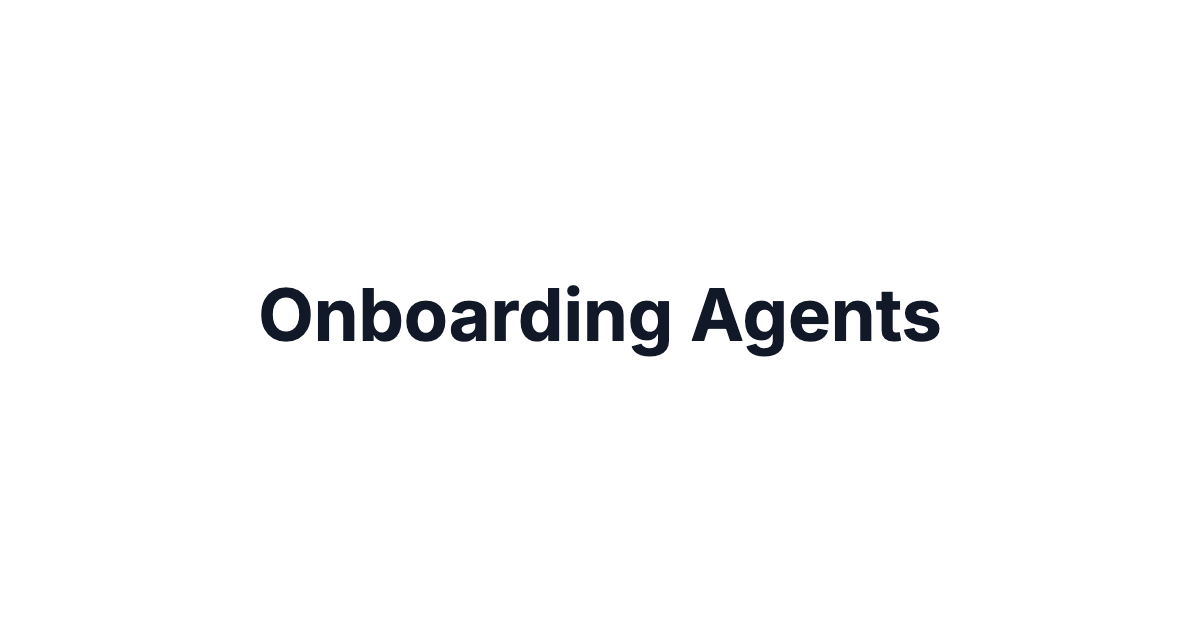
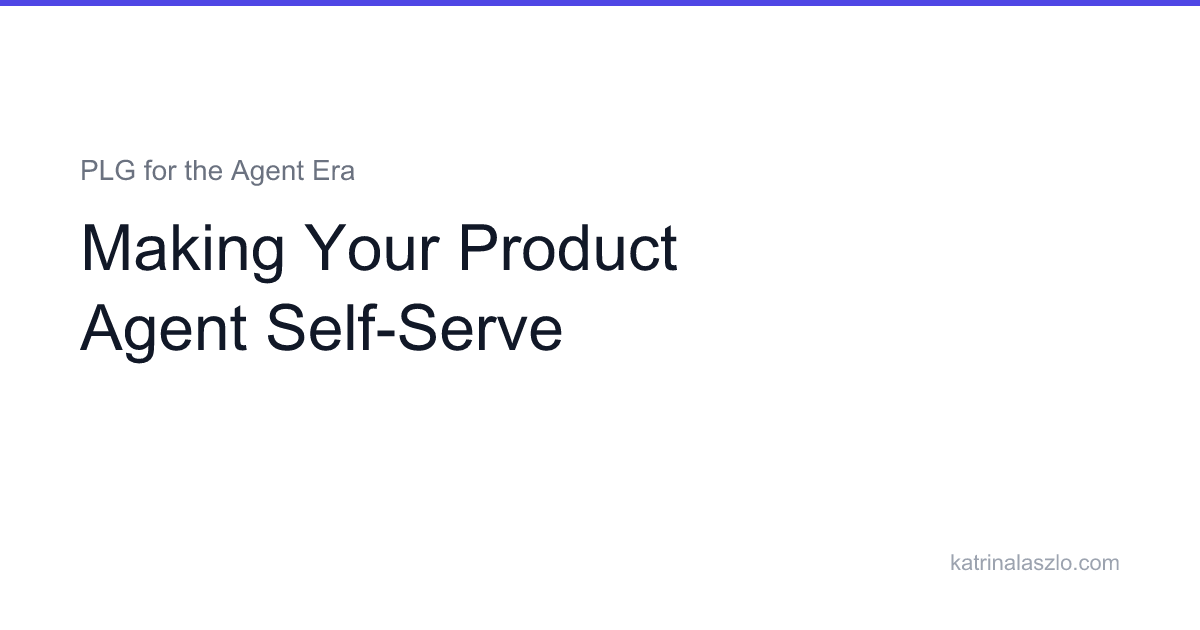
Rename onboarding-agents post to "Making Your Product Agent Self-Serve"
Standalone title works better than "Part 3:" prefix for discoverability.
Updated frontmatter, OG image, and rebuilt all posts.

diff --git a/public/blog/onboarding-agents.html b/public/blog/onboarding-agents.html
@@ -3,24 +3,24 @@
 <head>
 <meta charset="UTF-8">
 <meta name="viewport" content="width=device-width, initial-scale=1.0">
-<title>Onboarding Agents — Kat Laszlo</title>
-<meta name="description" content="Most SaaS products have APIs but are still agent-hostile. Here's what it takes to let an agent sign up, authenticate, pay, and manage itself, and an open-source skill to audit where you stand.">
-<meta name="ai:token-count" content="3011">
+<title>Making Your Product Agent Self-Serve — Kat Laszlo</title>
+<meta name="description" content="I made an AI cost observability product self-serve for agents. Here's what the industry recommends, what I actually built, what I skipped, and what isn't worth doing yet.">
+<meta name="ai:token-count" content="3057">
 <meta name="ai:page-type" content="article">
-<meta property="og:title" content="Onboarding Agents">
-<meta property="og:description" content="Most SaaS products have APIs but are still agent-hostile. Here's what it takes to let an agent sign up, authenticate, pay, and manage itself, and an open-source skill to audit where you stand.">
+<meta property="og:title" content="Making Your Product Agent Self-Serve">
+<meta property="og:description" content="I made an AI cost observability product self-serve for agents. Here's what the industry recommends, what I actually built, what I skipped, and what isn't worth doing yet.">
 <meta property="og:type" content="article">
 <meta property="og:url" content="https://katrinalaszlo.com/blog/onboarding-agents">
-<meta property="og:image" content="/blog/og/onboarding-agents.png">
+<meta property="og:image" content="/og-image.png">
 <meta property="og:image:width" content="1200">
 <meta property="og:image:height" content="630">
-<meta property="article:published_time" content="2026-06-01">
+<meta property="article:published_time" content="2026-06-02">
 <meta property="article:author" content="Kat Laszlo">
 <meta name="twitter:card" content="summary_large_image">
 <meta name="twitter:site" content="@Katlaszlo">
-<meta name="twitter:title" content="Onboarding Agents">
-<meta name="twitter:description" content="Most SaaS products have APIs but are still agent-hostile. Here's what it takes to let an agent sign up, authenticate, pay, and manage itself, and an open-source skill to audit where you stand.">
-<meta name="twitter:image" content="/blog/og/onboarding-agents.png">
+<meta name="twitter:title" content="Making Your Product Agent Self-Serve">
+<meta name="twitter:description" content="I made an AI cost observability product self-serve for agents. Here's what the industry recommends, what I actually built, what I skipped, and what isn't worth doing yet.">
+<meta name="twitter:image" content="/og-image.png">
 <link rel="llms-txt" href="/llms.txt">
 <link rel="alternate" type="application/rss+xml" title="Kat Laszlo's Blog" href="/blog/feed.xml">
 <link rel="alternate" type="text/plain" href="/llms.txt" title="LLM-optimized content">
@@ -35,15 +35,15 @@
 {
   "@context": "https://schema.org",
   "@type": "Article",
-  "headline": "Onboarding Agents",
-  "description": "Most SaaS products have APIs but are still agent-hostile. Here's what it takes to let an agent sign up, authenticate, pay, and manage itself, and an open-source skill to audit where you stand.",
+  "headline": "Making Your Product Agent Self-Serve",
+  "description": "I made an AI cost observability product self-serve for agents. Here's what the industry recommends, what I actually built, what I skipped, and what isn't worth doing yet.",
   "image": "/og-image.png",
   "author": {
     "@type": "Person",
     "name": "Kat Laszlo",
     "url": "https://katrinalaszlo.com"
   },
-  "datePublished": "2026-06-01",
+  "datePublished": "2026-06-02",
   "mainEntityOfPage": {
     "@type": "WebPage",
     "@id": "https://katrinalaszlo.com/blog/onboarding-agents"
@@ -67,13 +67,13 @@
 
   <article>
     <p class="series-label">PLG for the Agent Era</p>
-    <h1>Part 3: Onboarding Agents</h1>
+    <h1>Making Your Product Agent Self-Serve</h1>
     <div class="post-meta-row">
       <p class="post-meta">
-        <a href="/">Kat Laszlo</a> &middot; June 1, 2026
+        <a href="/">Kat Laszlo</a> &middot; June 2, 2026
       </p>
       <div class="post-actions">
-        <a class="action-icon" href="https://twitter.com/intent/tweet?url=https%3A%2F%2Fkatrinalaszlo.com%2Fblog%2Fonboarding-agents&text=Onboarding%20Agents" target="_blank" rel="noopener" title="Share on X">
+        <a class="action-icon" href="https://twitter.com/intent/tweet?url=https%3A%2F%2Fkatrinalaszlo.com%2Fblog%2Fonboarding-agents&text=Making%20Your%20Product%20Agent%20Self-Serve" target="_blank" rel="noopener" title="Share on X">
           <svg viewBox="0 0 24 24" fill="currentColor"><path d="M18.244 2.25h3.308l-7.227 8.26 8.502 11.24H16.17l-5.214-6.817L4.99 21.75H1.68l7.73-8.835L1.254 2.25H8.08l4.713 6.231zm-1.161 17.52h1.833L7.084 4.126H5.117z"/></svg>
         </a>
         <a class="action-icon" href="https://www.linkedin.com/sharing/share-offsite/?url=https%3A%2F%2Fkatrinalaszlo.com%2Fblog%2Fonboarding-agents" target="_blank" rel="noopener" title="Share on LinkedIn">
@@ -84,7 +84,29 @@
         </button>
       </div>
     </div>
-    <p>In <a href="/blog/agent-self-serve">Part 1</a>, I laid out how agents are reshaping B2B buying. In <a href="/blog/site-ready-for-ai">Part 2</a>, I covered whether agents can even read your site. But being findable and being usable are two different problems. An agent can discover your product, parse your docs, and recommend you to a buyer, and then hit a CAPTCHA on the signup page.</p><p>That's where most products are today. The discovery layer is catching up (llms.txt, markdown serving, structured data), but the action layer hasn't moved. Signup, auth, payments, account management: all of it still assumes a human in a browser. And the gap between "an agent can read about your product" and "an agent can actually use your product" is where the next wave of competitive advantage sits.</p><h2>What agents can't get past</h2><p>When an agent tries to go from evaluating your product to actually using it, it runs into a predictable set of walls. CAPTCHAs and browser fingerprinting are the obvious ones, but the subtler blockers are just as common: email verification loops (agents don't have inboxes by default), SMS OTP, OAuth consent screens that require a browser session, and "contact sales" gates that kill the entire self-serve path.</p><p>These aren't edge cases. They're the default experience at most SaaS companies. A product can have a full REST API and still be functionally inaccessible to agents if the only way to get an API key is through a dashboard that requires email verification and a CAPTCHA.</p><p>The <a href="https://danjcleary.substack.com/p/how-netlify-is-winning-the-age-of">Netlify pattern</a> is instructive here. Their `netlify deploy --allow-anonymous` command lets agents deploy without creating an account first, with a one-hour claim window for the human to associate the deployment with their account later. <a href="https://www.netlify.com/solutions/code-agents/">Agents now make up 80% of their new signups</a>. They didn't get there by adding an API on top of their existing flow. They inverted it: deploy first, claim later.</p><h2>Five dimensions of agent readiness</h2><p>If readability (Part 2) was about whether agents can find and understand your product, this is about whether they can act on it. The surface breaks down into five dimensions:</p><table><thead><tr><th>Dimension</th><th>What it answers</th></tr></thead><tbody><tr><td>Onboarding</td><td>Can an agent create an account without a browser?</td></tr><tr><td>Authentication</td><td>Can it get scoped credentials programmatically?</td></tr><tr><td>Purchasing</td><td>Can it select a plan and pay without a checkout page?</td></tr><tr><td>Usage monitoring</td><td>Can it track consumption and costs via API?</td></tr><tr><td>Self-management</td><td>Can it upgrade, downgrade, or cancel without a dashboard?</td></tr></tbody></table><p>Most products score well on zero or one of these. Having a REST API doesn't mean you score well on any of them, because the API usually covers your product's core functionality, not the account lifecycle around it. You might have a beautiful API for your product's features but require a human to click through Stripe Checkout to start paying for it.</p><h2>Who's actually doing this</h2><p>A handful of companies have built the full stack. They're worth studying not because every product needs to match them, but because they show what the end state looks like.</p><p><a href="https://www.infoq.com/news/2026/05/cloudflare-stripe-agent-commerce/">Cloudflare</a> lets agents create accounts, buy domains, and deploy applications end-to-end. No browser, no human intervention beyond initial terms acceptance. They went from "agents can use our CDN" to "agents can provision entire infrastructure stacks" in about a year.</p><p><a href="https://stripe.com/blog/developing-an-open-standard-for-agentic-commerce">Stripe</a> built the Agentic Commerce Protocol and launched Stripe Projects, where agents get scoped API keys, discover services from a catalog, and pay via the Payments API. It's invitation-only with 32 launch partners, but the protocol itself is open and points to where programmatic commerce is heading.</p><p>Twilio is the quietest example but arguably the deepest. API coverage for account creation, number provisioning, usage records, and billing, with most lifecycle actions available programmatically. They didn't build this for agents specifically; they built it because developers wanted it, and agents are just very fast developers.</p><p>The common thread isn't technology. It's a philosophy: every action a human can take in a dashboard should have a programmatic equivalent. Products that were built API-first for developers end up being agent-ready almost by accident. Products that bolted APIs onto dashboard-first experiences have gaps everywhere.</p><h2>Most agent auth is a pasted API key</h2><p>Authentication is where the most interesting tension sits. The recommended approach for agent-to-service auth is OAuth 2.0 Client Credentials (machine-to-machine tokens with scoped permissions and short TTLs). It's the "right" answer, and almost nobody implements it for self-serve tiers.</p><p>What actually happens is simpler and messier: the human generates an API key in a dashboard and pastes it into the agent's configuration. That key typically has full account access, no expiration, no budget limits, and no record of which agent is using it. The vast majority of AI agent projects use unscoped API keys. One leaked key, one runaway agent, and the entire account is exposed.</p><p>The practical middle ground is scoped keys with budgets. The human still creates the key (you don't need to solve programmatic onboarding on day one), but the key itself carries constraints: which endpoints it can hit, how much it can spend, and when it expires. Stripe's approach with scoped API keys in their Projects platform points to where this is heading. Most teams aren't going to implement a full OAuth Client Credentials flow for their self-serve tier. But they can add a few columns to their API keys table and start enforcing scopes and budgets tomorrow.</p><h2>Payments without a checkout page</h2><p>Purchasing is the dimension where the gap between recommended and practical is widest. The gold standard is <a href="https://stripe.com/blog/developing-an-open-standard-for-agentic-commerce">Stripe's Agentic Commerce Protocol</a>: agents discover plans from a machine-readable catalog, select one, and pay using the Payments API with a pre-authorized payment method. No Checkout Session, no redirect, no browser.</p><p>But Stripe's full protocol is invitation-only, and most products aren't going to build a custom billing API. The practical path starts with something most SaaS companies already have: Stripe's saved payment methods. The human adds a card once through the normal checkout flow. After that, an agent can use `POST /v1/subscriptions` with the saved `pm_...` token to change plans programmatically. No new billing infrastructure required, just an API route that wraps what Stripe already provides.</p><p>The machine-readable pricing layer matters too. If an agent can't programmatically compare your plans, features, and limits, it can't make a purchasing decision without asking the human to read a pricing page. Publishing a `pricing.json` (a structured manifest of your plans, like `robots.txt` for pricing) lets agents compare you against competitors without parsing marketing copy. I published a <a href="https://github.com/katrinalaszlo/agent-serve/tree/main/schema">schema for this</a> in the agent-serve repo.</p><h2>Where most products land</h2><p>Most products score between 1 and 3 across these five dimensions. They have APIs for their core features but nothing for the account lifecycle. The signup requires a browser. The API key requires a dashboard. The payment requires Checkout. The plan change requires support.</p><table><thead><tr><th>Level</th><th>What it means</th></tr></thead><tbody><tr><td>0: Agent-hostile</td><td>Browser-only everything, CAPTCHA, "contact sales"</td></tr><tr><td>1: API exists</td><td>REST API for features, but signup/auth/billing require a human</td></tr><tr><td>2: Agent-possible</td><td>API signup (with friction), scoped keys, usage visible via API</td></tr><tr><td>3: Agent-friendly</td><td>Full programmatic onboarding, plan selection and payment via API</td></tr><tr><td>4: Agent-first</td><td>Zero-friction provisioning, MCP server, spending policies, self-serve everything</td></tr></tbody></table><p>Level 4 is Stripe and Cloudflare. Level 2 is a reasonable near-term target for most self-serve SaaS. The jump from 1 to 2 is the highest-leverage work: add an API signup route, scope your API keys, and expose usage data. None of that requires rebuilding your billing system.</p><h2>Does this matter yet?</h2><p>The same honest framing from Part 2 applies here. If you're optimizing for agents to discover you, the evidence is mixed. If you're optimizing for agents to use you once they arrive, the evidence is stronger but the market is early.</p><p><a href="https://www.netlify.com/solutions/code-agents/">Netlify's 80% agent signup rate</a> is real, but Netlify is a developer tool where the users are already in terminals and the agents are coding agents deploying projects. That's the ideal case. A marketing automation platform or a CRM probably isn't seeing 80% agent signups anytime soon.</p><p>But the directional bet is clear. <a href="https://stripe.com/blog/developing-an-open-standard-for-agentic-commerce">Stripe didn't build an entire commerce protocol</a> for a market that doesn't exist. Cloudflare didn't rebuild their onboarding around agents as a thought exercise. And the 73% of B2B buyers using agents for research will eventually expect those agents to act on their behalf, not just report back.</p><p>The pragmatic path is to start with Level 2. Scope your API keys. Expose usage data via API. Add a machine-readable pricing manifest. These are hours of work, not quarters, and they position you for the transition without requiring you to rebuild your entire account lifecycle. For most products, the highest-leverage fix is auth (scoped keys) or onboarding (an API signup route). The rest can follow as the market demands it.</p>
+    <p>In <a href="/blog/site-ready-for-ai">Part 2</a>, I looked at whether agents can read your site: discovery files, markdown serving, token efficiency. But readability only matters if agents can actually do something when they arrive. This part is about what happens next: can an agent sign up, authenticate, pay, and use your product without a human touching a browser?</p><p>I did this for Observe, an AI cost observability platform. I went through the recommendations, built what made sense, skipped what didn't, and packaged the patterns into an <a href="https://github.com/katrinalaszlo/agent-serve">open-source skill</a> so you can audit your own product. Then I realized I never actually tested any of it with an agent.</p><p>That's the honest version. I spent weeks building the "right" agent-ready infrastructure based on industry best practices, and I shipped it without once having an agent try to sign up and use the product. The patterns felt correct. The endpoints were clean. But I couldn't tell you whether a real agent could actually get through the flow end-to-end, because I never checked. If you take one thing from this post, it's that testing with an actual agent should come before building the perfect agent-ready stack, not after.</p><p>Here's what I built, what the discourse says you should build, and where those two things diverge.</p><h2>The baseline</h2><p>If you have a self-serve SaaS with an API, you already have most of what agents need. The blockers aren't architectural, they're ceremony. CAPTCHA, email verification, browser-only checkout, dashboard-only settings. These assume a human at a keyboard, and when an agent hits one, it stops.</p><p><a href="https://www.netlify.com/solutions/code-agents/">Netlify reports</a> that 80% of new signups are now agents. <a href="https://www.apideck.com/blog/api-design-principles-agentic-era">Gertjan De Wilde at Apideck</a> calls authentication "arguably the single biggest friction point for agents." If your product has a programmatic path that avoids human ceremony, you're already ahead of most.</p><h2>Five areas, what I built for each</h2><h3>1. Onboarding</h3><p><strong>What they recommend:</strong> API-based account creation with no browser interaction. No CAPTCHA, no email verification, no phone number. Netlify and Prisma use a "deploy-first-claim-later" pattern where agents provision instantly and humans claim ownership within a time window.</p><p><strong>What I did:</strong> `POST /signup` with no auth required, no CAPTCHA, no email verification. Returns a scoped API key in one call. Rate-limited to 3 requests/hour per IP.</p><div class="code-block"><button class="copy-code" data-copy onclick="navigator.clipboard.writeText(this.nextElementSibling.textContent).then(()=>{this.textContent='Copied!';setTimeout(()=>this.textContent='Copy',2000)})">Copy</button><pre><code class="language-json">POST /api/signup
+{ "email": "agent@example.com", "scopes": ["usage.read", "events.write"] }
+
+Response:
+{ "key": "obs_...", "scopes": ["usage.read", "events.write"] }</code></pre></div><p>The distinction between rate limiting and CAPTCHA matters. Rate limiting constrains volume without blocking agents. CAPTCHA uses browser fingerprinting and behavioral scoring that headless agents can't pass.</p><p><strong>My take:</strong> If your signup requires a browser, agents can't use your product. There's no workaround. This is table stakes.</p><h3>2. Authentication</h3><p><strong>What they recommend:</strong> Scoped API keys with rotation, OAuth 2.0 Client Credentials Grant for machine-to-machine auth, <a href="https://datatracker.ietf.org/doc/draft-gupta-httpbis-web-bot-auth/">Web Bot Auth</a> (IETF draft) for cryptographic agent identity. No magic links, no SMS OTP, no browser-only OAuth consent.</p><p><strong>What I did:</strong> Scoped SDK keys with 14 granular permissions (`events.read`, `events.write`, `billing.read`, `proxy.chat`, etc.). Key rotation via API. Multiple keys per account so different agents get different scopes. Per-key budget caps with configurable periods. And key introspection at `GET /sdk-keys/me` so an agent can check its own permissions and remaining budget.</p><div class="code-block"><button class="copy-code" data-copy onclick="navigator.clipboard.writeText(this.nextElementSibling.textContent).then(()=>{this.textContent='Copied!';setTimeout(()=>this.textContent='Copy',2000)})">Copy</button><pre><code class="language-json">GET /sdk-keys/me
+{
+  "auth_type": "sdk_key",
+  "scopes": ["usage.read", "events.write", "proxy.chat"],
+  "budget_cents": 5000,
+  "budget_used_cents": 120,
+  "budget_remaining_cents": 4880,
+  "budget_period": "month"
+}</code></pre></div><p><strong>What I skipped:</strong> OAuth Client Credentials. The SDK key system covers the agent case. Client Credentials is the enterprise-grade pattern for multi-tenant scenarios, and I'd add it when enterprise customers ask for it.</p><p><strong>My take:</strong> Scoped API keys with rotation is the 80/20. The thing most people miss is per-key budgets. An agent operating on behalf of a customer needs to know its spending limits. Without that, it's either overly cautious (asks for permission on everything) or reckless (runs up a bill). Budget introspection gives agents the guardrails to operate autonomously.</p><h3>3. Purchasing</h3><p><strong>What they recommend:</strong> JSON plan catalog at `GET /plans`. Programmatic subscription creation via <a href="https://docs.stripe.com/api/subscriptions">Stripe's Subscriptions API</a>. Accept saved payment methods (`pm_...`) so agents can pay without a browser. Publish `pricing.json` for machine-readable pricing discovery.</p><p><strong>What I did:</strong> `GET /plans` returns the full catalog as JSON (Free / Pro $29/mo / Team $99/mo with features and limits). `POST /billing/change-plan` accepts a `payment_method` parameter. If an agent has a saved `pm_...`, the subscription gets created without any browser interaction. It only falls back to a checkout URL when no payment method exists and none is on file.</p><p><strong>What I skipped:</strong> `pricing.json`, even though I designed the schema (it's in the <a href="https://github.com/katrinalaszlo/agent-serve/tree/main/schema">agent-serve repo</a>). Also skipped Stripe's newer agent commerce primitives: Shared Payment Tokens, Link wallet, the <a href="https://docs.stripe.com/agentic-commerce">Agentic Commerce Protocol</a>.</p><p>Most SaaS already uses Stripe. The code to accept a saved payment method exists in your integration. You're just not exposing it as an API parameter, sending agents to a browser redirect instead. Changing that is usually a few lines in your billing endpoint, not a new system.</p><p><strong>My take:</strong> `pricing.json` is the piece I'm most interested in. Agents can't compare your pricing with competitors if it's locked in HTML. I designed a schema covering plans, usage metrics, overage models, compliance certifications, and integration details. Whether it gets adoption is an open question, but the need is real: structured pricing is the missing layer between "agent found your product" and "agent can evaluate whether to buy it."</p><h3>4. Usage monitoring</h3><p><strong>What they recommend:</strong> Rate limit headers on every API response. Dedicated usage endpoint with current-period data. Billing API. Threshold webhooks for quota events.</p><p><strong>What I did:</strong> Rate limiting with standard headers (`x-ratelimit-remaining`, `x-ratelimit-reset`). `GET /usage` returns current-period consumption. `GET /plan` returns per-feature limits with remaining counts. Per-key budget tracking with reset dates.</p><div class="code-block"><button class="copy-code" data-copy onclick="navigator.clipboard.writeText(this.nextElementSibling.textContent).then(()=>{this.textContent='Copied!';setTimeout(()=>this.textContent='Copy',2000)})">Copy</button><pre><code class="language-json">GET /usage
+{
+  "period": "2026-05",
+  "plan": "free",
+  "usage": {
+    "event_ingest": { "used": 4520, "limit": 10000, "reset": "monthly" },
+    "ai_insights": { "used": 12, "limit": 1000, "reset": "monthly" }
+  },
+  "percent_used": 45.2
+}</code></pre></div><p><strong>What I skipped:</strong> Threshold webhooks. I have cost and margin alerts (8 curated types), but not "you're at 80% of your event ingest limit." An agent can poll usage, but it can't get notified proactively.</p><p><strong>My take:</strong> Rate limit headers on every response are the highest-impact, lowest-effort change. Agents use them to self-throttle in real time. Threshold webhooks are the difference between an agent that checks its limits and an agent that reacts to them. I should have built those.</p><h3>5. Self-management</h3><p><strong>What they recommend:</strong> Plan changes, cancellation, configuration, team management, all via API. <a href="https://modelcontextprotocol.io/">MCP</a> server as the agent-facing product interface.</p><p><strong>What I did:</strong> Plan changes via API. SDK key lifecycle (create, rotate, revoke). Feature configuration and pricing rules via API. Alert management (create, update, delete, test). Team management (invite, update role, remove). An A2A query endpoint so other agents can ask structured cost/usage/margin questions.</p><p><strong>What I skipped:</strong> An explicit cancel endpoint (downgrading to free is effectively canceling, but there's no `DELETE /subscription`). Account deletion for GDPR compliance. MCP server.</p><p><strong>My take:</strong> MCP is the right long-term play. It wraps your API so agents can discover and call it natively. But build it after your REST API surface is solid. MCP is a layer on top of APIs, not a replacement, and I've seen people try to skip straight to an MCP server without having proper endpoints underneath it.</p><h2>What's not worth doing yet</h2><p>The agent-ready discourse has a lot of standards that sound important but aren't practical for B2B SaaS today. <a href="https://mobiledevmemo.com/podcast-re-evaluating-agentic-commerce-with-andrew-lipsman/">Andrew Lipsman</a> calls the broader agentic commerce enthusiasm "a collective hallucination," pointing out that ChatGPT's Instant Checkout experiment <a href="https://www.modernretail.co/technology/what-went-wrong-with-chatgpts-instant-checkout/">converted three times worse</a> than just sending shoppers back to Walmart's own site. The infrastructure side is similarly early.</p><table><thead><tr><th>Standard</th><th>What it is</th><th>Why you can skip it</th></tr></thead><tbody><tr><td><strong><a href="https://docs.stripe.com/agentic-commerce">Stripe ACP / MPP</a></strong></td><td>Commerce protocols for agent marketplaces</td><td>Built for the ChatGPT-buys-from-Etsy ecosystem. B2B SaaS just needs to accept `pm_...` through existing Stripe.</td></tr><tr><td><strong>Shared Payment Tokens</strong></td><td>Cross-merchant agent payment primitive</td><td>Agents that have SPTs use your existing Stripe infrastructure. You don't build anything extra.</td></tr><tr><td><strong>x402</strong></td><td>Pay-per-API-call protocol</td><td><a href="https://www.coindesk.com/markets/2026/03/11/coinbase-backed-ai-payments-protocol-wants-to-fix-micropayment-but-demand-is-just-not-there-yet">Near-zero real adoption</a>. Usage-based billing through Stripe covers the same need.</td></tr><tr><td><strong>Web Bot Auth</strong></td><td>Cryptographic agent identity (IETF draft)</td><td>Good direction, but WAFs aren't set up for it yet. Scoped API keys work now.</td></tr><tr><td><strong>WebMCP</strong></td><td>HTML form attributes as agent tools</td><td>Chrome Canary only.</td></tr></tbody></table><p>These solve problems at the platform layer. They matter for Stripe, Shopify, and Cloudflare, companies building agent infrastructure. For B2B SaaS serving agent customers, the fundamentals move the needle: API signup, scoped keys, programmatic billing, usage visibility.</p><h2>Implementation order</h2><p>If I were starting from scratch:</p><p><strong>Week 1: Remove human gates.</strong> Kill CAPTCHA on programmatic paths. Add API signup that returns an API key in one call. Skip email verification for API-only access.</p><p><strong>Week 2: Auth and keys.</strong> Scoped API keys with granular permissions. Key rotation endpoint. Multiple keys per account.</p><p><strong>Week 3: Billing and usage.</strong> `GET /plans` returning JSON. Accept `payment_method` on your plan-change endpoint. `GET /usage` with current-period data. Rate limit headers on all responses.</p><p><strong>Week 4: Discoverability.</strong> Publish llms.txt. Add an agent card at `/.well-known/agent.json`. Document the programmatic billing path in your API docs.</p><p><strong>Week 5+: Polish.</strong> Per-key budget caps. Usage threshold webhooks. Cancel via API. Account deletion. `pricing.json`. MCP server.</p><h2>The skill</h2><p>I packaged the patterns from this work into an open-source Claude Code skill that audits any product against these five areas:</p><div class="code-block"><button class="copy-code" data-copy onclick="navigator.clipboard.writeText(this.nextElementSibling.textContent).then(()=>{this.textContent='Copied!';setTimeout(()=>this.textContent='Copy',2000)})">Copy</button><pre><code class="language-bash">npx skills add katrinalaszlo/agent-serve</code></pre></div><p>Run `/agent-serve https://your-product.com` on a live product or `/agent-serve` from your codebase. It checks onboarding, auth, purchasing, usage monitoring, and self-management, then tells you what to build: specific endpoint signatures, Stripe API patterns, effort estimates, referencing how Stripe, Cloudflare, and Twilio handle the same problems.</p><p>You can also install individual areas:</p><div class="code-block"><button class="copy-code" data-copy onclick="navigator.clipboard.writeText(this.nextElementSibling.textContent).then(()=>{this.textContent='Copied!';setTimeout(()=>this.textContent='Copy',2000)})">Copy</button><pre><code class="language-bash">npx skills add katrinalaszlo/agent-serve --skill agent-serve-purchasing
+npx skills add katrinalaszlo/agent-serve --skill agent-serve-auth</code></pre></div><p>The recommendations aren't theoretical. They came from building this for Observe, finding the gaps, and packaging what worked. Whether I should have tested with an actual agent before packaging it into best practices is a question I'm still sitting with.</p>
   </article>
 
 

diff --git a/public/blog/is-outcome-based-pricing-real.html b/public/blog/is-outcome-based-pricing-real.html
@@ -11,7 +11,7 @@
 <meta property="og:description" content="Only 2% of companies used outcome-based pricing in mid-2025. By December it was 18%. The gap between the narrative and reality tells you something important about where AI pricing actually is.">
 <meta property="og:type" content="article">
 <meta property="og:url" content="https://katrinalaszlo.com/blog/is-outcome-based-pricing-real">
-<meta property="og:image" content="/blog/og/is-outcome-based-pricing-real.png">
+<meta property="og:image" content="https://www.tansohq.com/images/blog-outcome-pricing-og.png">
 <meta property="og:image:width" content="1200">
 <meta property="og:image:height" content="630">
 <meta property="article:published_time" content="2026-02-15">
@@ -20,7 +20,7 @@
 <meta name="twitter:site" content="@Katlaszlo">
 <meta name="twitter:title" content="Is Outcome-Based Pricing Real, or Just Marketing Hype?">
 <meta name="twitter:description" content="Only 2% of companies used outcome-based pricing in mid-2025. By December it was 18%. The gap between the narrative and reality tells you something important about where AI pricing actually is.">
-<meta name="twitter:image" content="/blog/og/is-outcome-based-pricing-real.png">
+<meta name="twitter:image" content="https://www.tansohq.com/images/blog-outcome-pricing-og.png">
 <link rel="llms-txt" href="/llms.txt">
 <link rel="alternate" type="application/rss+xml" title="Kat Laszlo's Blog" href="/blog/feed.xml">
 <link rel="alternate" type="text/plain" href="/llms.txt" title="LLM-optimized content">

diff --git a/public/blog/pricing-infrastructure-complexity.html b/public/blog/pricing-infrastructure-complexity.html
@@ -11,7 +11,7 @@
 <meta property="og:description" content="Early teams usually start the same way. Add a few plans, connect Stripe, and move on. Then usage grows, customers scale, and one-off exceptions turn into system-wide behavior.">
 <meta property="og:type" content="article">
 <meta property="og:url" content="https://katrinalaszlo.com/blog/pricing-infrastructure-complexity">
-<meta property="og:image" content="/blog/og/pricing-infrastructure-complexity.png">
+<meta property="og:image" content="https://www.tansohq.com/images/blog-pricing-infrastructure-og.png">
 <meta property="og:image:width" content="1200">
 <meta property="og:image:height" content="630">
 <meta property="article:published_time" content="2025-12-08">
@@ -20,7 +20,7 @@
 <meta name="twitter:site" content="@Katlaszlo">
 <meta name="twitter:title" content="Why Pricing Infrastructure Gets Hard Fast for AI Startups">
 <meta name="twitter:description" content="Early teams usually start the same way. Add a few plans, connect Stripe, and move on. Then usage grows, customers scale, and one-off exceptions turn into system-wide behavior.">
-<meta name="twitter:image" content="/blog/og/pricing-infrastructure-complexity.png">
+<meta name="twitter:image" content="https://www.tansohq.com/images/blog-pricing-infrastructure-og.png">
 <link rel="llms-txt" href="/llms.txt">
 <link rel="alternate" type="application/rss+xml" title="Kat Laszlo's Blog" href="/blog/feed.xml">
 <link rel="alternate" type="text/plain" href="/llms.txt" title="LLM-optimized content">

diff --git a/public/blog/ai-pricing-differences.html b/public/blog/ai-pricing-differences.html
@@ -11,7 +11,7 @@
 <meta property="og:description" content="AI pricing looks new. New labels. New meters. New behaviors. Some things genuinely changed: costs and attribution work differently now. But fundamentals haven't.">
 <meta property="og:type" content="article">
 <meta property="og:url" content="https://katrinalaszlo.com/blog/ai-pricing-differences">
-<meta property="og:image" content="/blog/og/ai-pricing-differences.png">
+<meta property="og:image" content="https://www.tansohq.com/images/blog-pricing-decisions-og.png">
 <meta property="og:image:width" content="1200">
 <meta property="og:image:height" content="630">
 <meta property="article:published_time" content="2025-11-28">
@@ -20,7 +20,7 @@
 <meta name="twitter:site" content="@Katlaszlo">
 <meta name="twitter:title" content="What's Actually Different About AI Pricing">
 <meta name="twitter:description" content="AI pricing looks new. New labels. New meters. New behaviors. Some things genuinely changed: costs and attribution work differently now. But fundamentals haven't.">
-<meta name="twitter:image" content="/blog/og/ai-pricing-differences.png">
+<meta name="twitter:image" content="https://www.tansohq.com/images/blog-pricing-decisions-og.png">
 <link rel="llms-txt" href="/llms.txt">
 <link rel="alternate" type="application/rss+xml" title="Kat Laszlo's Blog" href="/blog/feed.xml">
 <link rel="alternate" type="text/plain" href="/llms.txt" title="LLM-optimized content">

diff --git a/public/blog/ai-included.html b/public/blog/ai-included.html
@@ -11,7 +11,7 @@
 <meta property="og:description" content="The mismatch between flat pricing and variable AI costs didn't start with AI-native startups. It's coming for every SaaS company that shipped an AI feature in the last two years.">
 <meta property="og:type" content="article">
 <meta property="og:url" content="https://katrinalaszlo.com/blog/ai-included">
-<meta property="og:image" content="/blog/og/ai-included.png">
+<meta property="og:image" content="https://www.tansohq.com/images/blog-bundled-ai-og.png">
 <meta property="og:image:width" content="1200">
 <meta property="og:image:height" content="630">
 <meta property="article:published_time" content="2026-02-25">
@@ -20,7 +20,7 @@
 <meta name="twitter:site" content="@Katlaszlo">
 <meta name="twitter:title" content="The 'AI Included' Era Was Never Going to Last Forever">
 <meta name="twitter:description" content="The mismatch between flat pricing and variable AI costs didn't start with AI-native startups. It's coming for every SaaS company that shipped an AI feature in the last two years.">
-<meta name="twitter:image" content="/blog/og/ai-included.png">
+<meta name="twitter:image" content="https://www.tansohq.com/images/blog-bundled-ai-og.png">
 <link rel="llms-txt" href="/llms.txt">
 <link rel="alternate" type="application/rss+xml" title="Kat Laszlo's Blog" href="/blog/feed.xml">
 <link rel="alternate" type="text/plain" href="/llms.txt" title="LLM-optimized content">

diff --git a/public/blog/more-customers-bigger-losses.html b/public/blog/more-customers-bigger-losses.html
@@ -11,7 +11,7 @@
 <meta property="og:description" content="Most AI companies can answer 'What did we spend on OpenAI last month?' Almost none can answer 'Which customers are actually profitable?'">
 <meta property="og:type" content="article">
 <meta property="og:url" content="https://katrinalaszlo.com/blog/more-customers-bigger-losses">
-<meta property="og:image" content="/blog/og/more-customers-bigger-losses.png">
+<meta property="og:image" content="https://www.tansohq.com/images/blog-ai-costs-black-box-og.png">
 <meta property="og:image:width" content="1200">
 <meta property="og:image:height" content="630">
 <meta property="article:published_time" content="2026-01-10">
@@ -20,7 +20,7 @@
 <meta name="twitter:site" content="@Katlaszlo">
 <meta name="twitter:title" content="When More Customers Mean Bigger Losses">
 <meta name="twitter:description" content="Most AI companies can answer 'What did we spend on OpenAI last month?' Almost none can answer 'Which customers are actually profitable?'">
-<meta name="twitter:image" content="/blog/og/more-customers-bigger-losses.png">
+<meta name="twitter:image" content="https://www.tansohq.com/images/blog-ai-costs-black-box-og.png">
 <link rel="llms-txt" href="/llms.txt">
 <link rel="alternate" type="application/rss+xml" title="Kat Laszlo's Blog" href="/blog/feed.xml">
 <link rel="alternate" type="text/plain" href="/llms.txt" title="LLM-optimized content">

diff --git a/public/blog/rethinking-pricing-because-of-ai.html b/public/blog/rethinking-pricing-because-of-ai.html
@@ -11,7 +11,7 @@
 <meta property="og:description" content="The most common mistake: teams look at their AI COGS, panic, and mark it up. That's cost-plus pricing wearing an AI hat.">
 <meta property="og:type" content="article">
 <meta property="og:url" content="https://katrinalaszlo.com/blog/rethinking-pricing-because-of-ai">
-<meta property="og:image" content="/blog/og/rethinking-pricing-because-of-ai.png">
+<meta property="og:image" content="/blog/og/rethinking-pricing.svg">
 <meta property="og:image:width" content="1200">
 <meta property="og:image:height" content="630">
 <meta property="article:published_time" content="2026-04-18">
@@ -20,7 +20,7 @@
 <meta name="twitter:site" content="@Katlaszlo">
 <meta name="twitter:title" content="If you're rethinking your pricing because of AI, read this first">
 <meta name="twitter:description" content="The most common mistake: teams look at their AI COGS, panic, and mark it up. That's cost-plus pricing wearing an AI hat.">
-<meta name="twitter:image" content="/blog/og/rethinking-pricing-because-of-ai.png">
+<meta name="twitter:image" content="/blog/og/rethinking-pricing.svg">
 <link rel="llms-txt" href="/llms.txt">
 <link rel="alternate" type="application/rss+xml" title="Kat Laszlo's Blog" href="/blog/feed.xml">
 <link rel="alternate" type="text/plain" href="/llms.txt" title="LLM-optimized content">

diff --git a/public/blog/agent-self-serve.html b/public/blog/agent-self-serve.html
@@ -11,7 +11,7 @@
 <meta property="og:description" content="Agents are already reshaping how B2B buyers research and choose vendors. What does the self-serve experience need to look like when an agent is the buyer?">
 <meta property="og:type" content="article">
 <meta property="og:url" content="https://katrinalaszlo.com/blog/agent-self-serve">
-<meta property="og:image" content="/blog/og/agent-self-serve.png">
+<meta property="og:image" content="/blog/og/agent-self-serve.svg">
 <meta property="og:image:width" content="1200">
 <meta property="og:image:height" content="630">
 <meta property="article:published_time" content="2026-05-26">
@@ -20,7 +20,7 @@
 <meta name="twitter:site" content="@Katlaszlo">
 <meta name="twitter:title" content="Your Next Customer Might Be an Agent">
 <meta name="twitter:description" content="Agents are already reshaping how B2B buyers research and choose vendors. What does the self-serve experience need to look like when an agent is the buyer?">
-<meta name="twitter:image" content="/blog/og/agent-self-serve.png">
+<meta name="twitter:image" content="/blog/og/agent-self-serve.svg">
 <link rel="llms-txt" href="/llms.txt">
 <link rel="alternate" type="application/rss+xml" title="Kat Laszlo's Blog" href="/blog/feed.xml">
 <link rel="alternate" type="text/plain" href="/llms.txt" title="LLM-optimized content">

diff --git a/public/blog/building-a-pricing-database.html b/public/blog/building-a-pricing-database.html
@@ -11,7 +11,7 @@
 <meta property="og:description" content="Human-directed, AI-driven research and insights. An LLM does all the writing, cross-referencing, and maintenance while I curate what goes in.">
 <meta property="og:type" content="article">
 <meta property="og:url" content="https://katrinalaszlo.com/blog/building-a-pricing-database">
-<meta property="og:image" content="/blog/og/building-a-pricing-database.png">
+<meta property="og:image" content="/blog/og/pricing-database.svg">
 <meta property="og:image:width" content="1200">
 <meta property="og:image:height" content="630">
 <meta property="article:published_time" content="2026-05-05">
@@ -20,7 +20,7 @@
 <meta name="twitter:site" content="@Katlaszlo">
 <meta name="twitter:title" content="Building a Pricing Database">
 <meta name="twitter:description" content="Human-directed, AI-driven research and insights. An LLM does all the writing, cross-referencing, and maintenance while I curate what goes in.">
-<meta name="twitter:image" content="/blog/og/building-a-pricing-database.png">
+<meta name="twitter:image" content="/blog/og/pricing-database.svg">
 <link rel="llms-txt" href="/llms.txt">
 <link rel="alternate" type="application/rss+xml" title="Kat Laszlo's Blog" href="/blog/feed.xml">
 <link rel="alternate" type="text/plain" href="/llms.txt" title="LLM-optimized content">

diff --git a/public/blog/site-ready-for-ai.html b/public/blog/site-ready-for-ai.html
@@ -11,7 +11,7 @@
 <meta property="og:description" content="Five competing frameworks now score how well your site serves AI agents. Here's what they check, whether it matters, and a single command that runs them all.">
 <meta property="og:type" content="article">
 <meta property="og:url" content="https://katrinalaszlo.com/blog/site-ready-for-ai">
-<meta property="og:image" content="/blog/og/site-ready-for-ai.png">
+<meta property="og:image" content="/og-image.png">
 <meta property="og:image:width" content="1200">
 <meta property="og:image:height" content="630">
 <meta property="article:published_time" content="2026-05-29">
@@ -20,7 +20,7 @@
 <meta name="twitter:site" content="@Katlaszlo">
 <meta name="twitter:title" content="Is Your Site Ready for Agents?">
 <meta name="twitter:description" content="Five competing frameworks now score how well your site serves AI agents. Here's what they check, whether it matters, and a single command that runs them all.">
-<meta name="twitter:image" content="/blog/og/site-ready-for-ai.png">
+<meta name="twitter:image" content="/og-image.png">
 <link rel="llms-txt" href="/llms.txt">
 <link rel="alternate" type="application/rss+xml" title="Kat Laszlo's Blog" href="/blog/feed.xml">
 <link rel="alternate" type="text/plain" href="/llms.txt" title="LLM-optimized content">

diff --git a/public/blog/product-discovery-with-llm-wiki.html b/public/blog/product-discovery-with-llm-wiki.html
@@ -11,7 +11,7 @@
 <meta property="og:description" content="I repurposed Karpathy's LLM Wiki for product discovery. It worked surprisingly well.">
 <meta property="og:type" content="article">
 <meta property="og:url" content="https://katrinalaszlo.com/blog/product-discovery-with-llm-wiki">
-<meta property="og:image" content="/blog/og/product-discovery-with-llm-wiki.png">
+<meta property="og:image" content="/blog/og/product-discovery.svg">
 <meta property="og:image:width" content="1200">
 <meta property="og:image:height" content="630">
 <meta property="article:published_time" content="2026-04-27">
@@ -20,7 +20,7 @@
 <meta name="twitter:site" content="@Katlaszlo">
 <meta name="twitter:title" content="Product Discovery with Karpathy's LLM Wiki">
 <meta name="twitter:description" content="I repurposed Karpathy's LLM Wiki for product discovery. It worked surprisingly well.">
-<meta name="twitter:image" content="/blog/og/product-discovery-with-llm-wiki.png">
+<meta name="twitter:image" content="/blog/og/product-discovery.svg">
 <link rel="llms-txt" href="/llms.txt">
 <link rel="alternate" type="application/rss+xml" title="Kat Laszlo's Blog" href="/blog/feed.xml">
 <link rel="alternate" type="text/plain" href="/llms.txt" title="LLM-optimized content">

diff --git a/public/blog/pricing-moat-ai-saas.html b/public/blog/pricing-moat-ai-saas.html
@@ -11,7 +11,7 @@
 <meta property="og:description" content="How pricing became a source of durable advantage in AI SaaS">
 <meta property="og:type" content="article">
 <meta property="og:url" content="https://katrinalaszlo.com/blog/pricing-moat-ai-saas">
-<meta property="og:image" content="/blog/og/pricing-moat-ai-saas.png">
+<meta property="og:image" content="https://www.tansohq.com/images/blog-pricing-moat-og.png">
 <meta property="og:image:width" content="1200">
 <meta property="og:image:height" content="630">
 <meta property="article:published_time" content="2026-01-08">
@@ -20,7 +20,7 @@
 <meta name="twitter:site" content="@Katlaszlo">
 <meta name="twitter:title" content="Pricing Is a Real Moat in AI SaaS">
 <meta name="twitter:description" content="How pricing became a source of durable advantage in AI SaaS">
-<meta name="twitter:image" content="/blog/og/pricing-moat-ai-saas.png">
+<meta name="twitter:image" content="https://www.tansohq.com/images/blog-pricing-moat-og.png">
 <link rel="llms-txt" href="/llms.txt">
 <link rel="alternate" type="application/rss+xml" title="Kat Laszlo's Blog" href="/blog/feed.xml">
 <link rel="alternate" type="text/plain" href="/llms.txt" title="LLM-optimized content">
